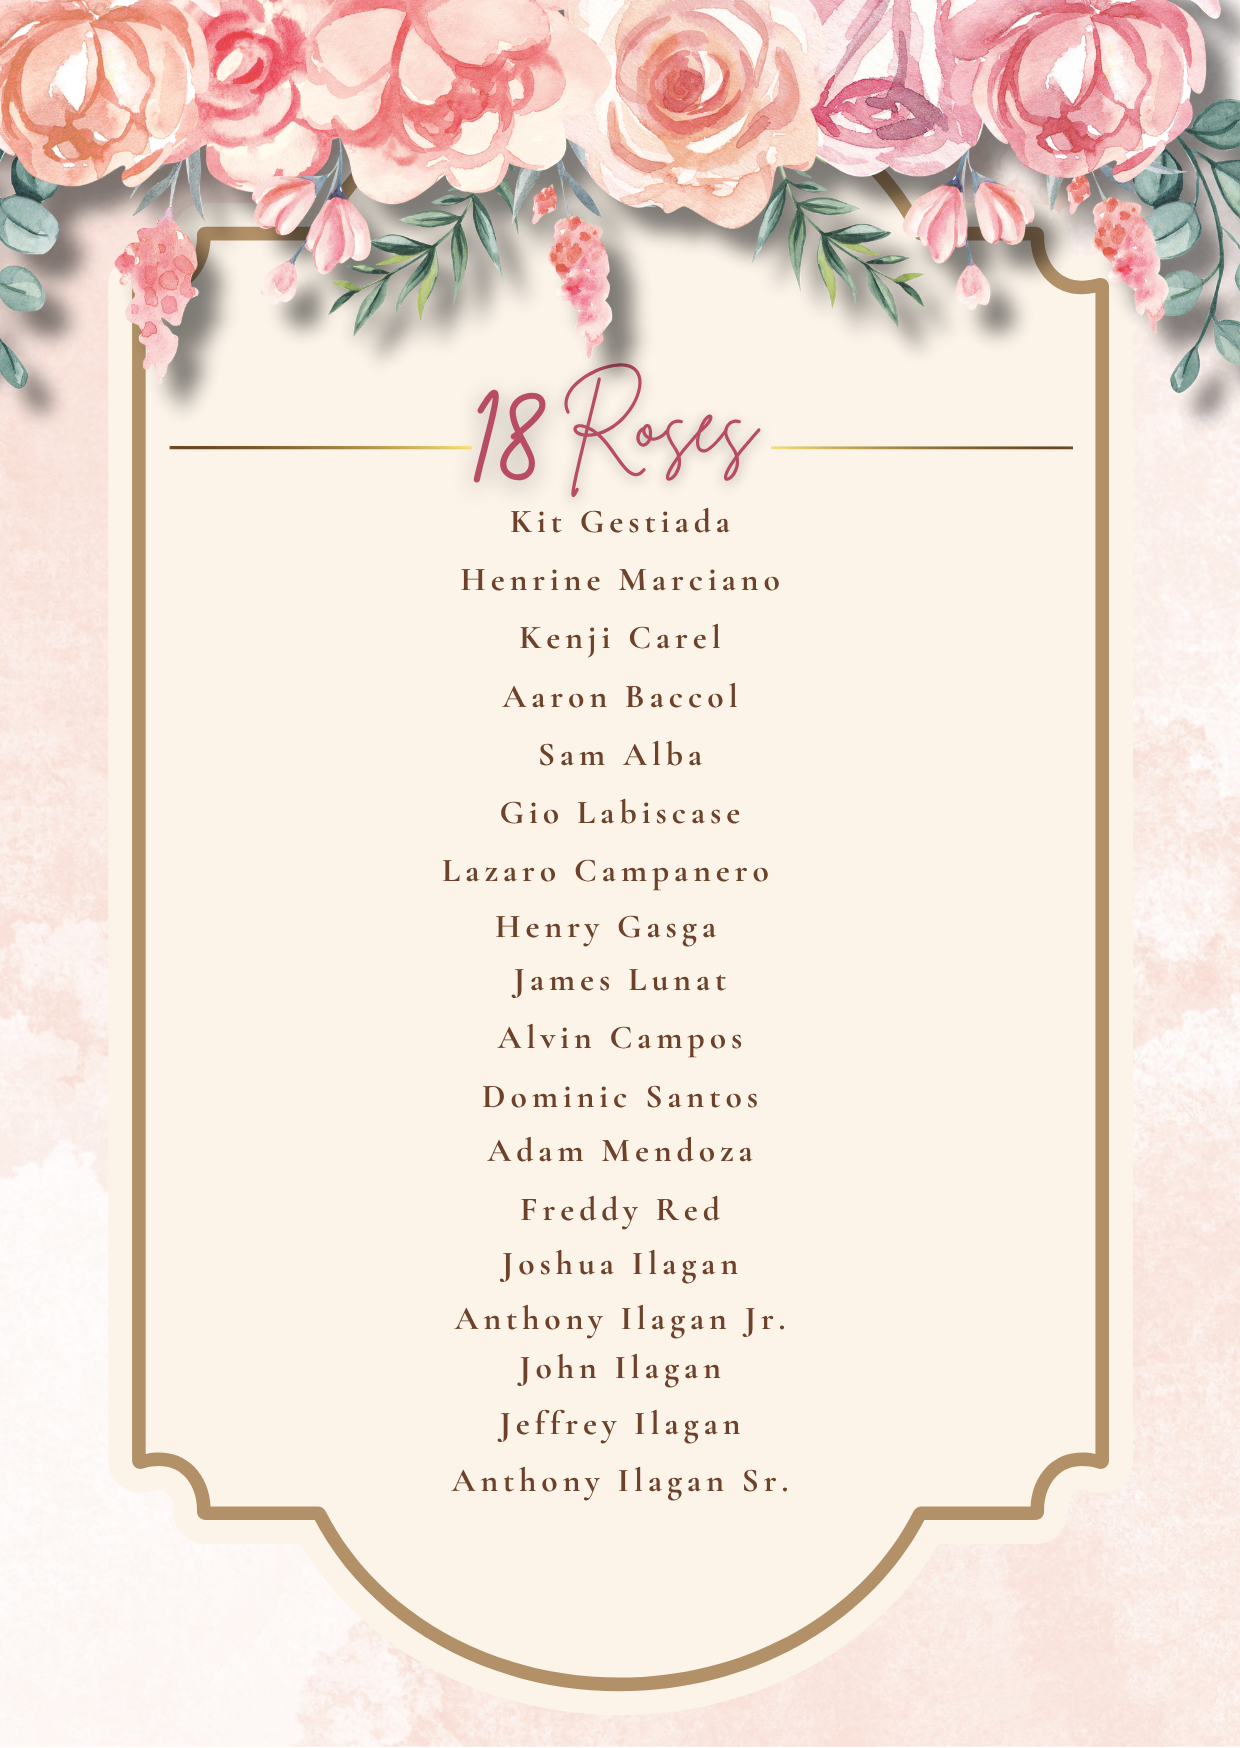
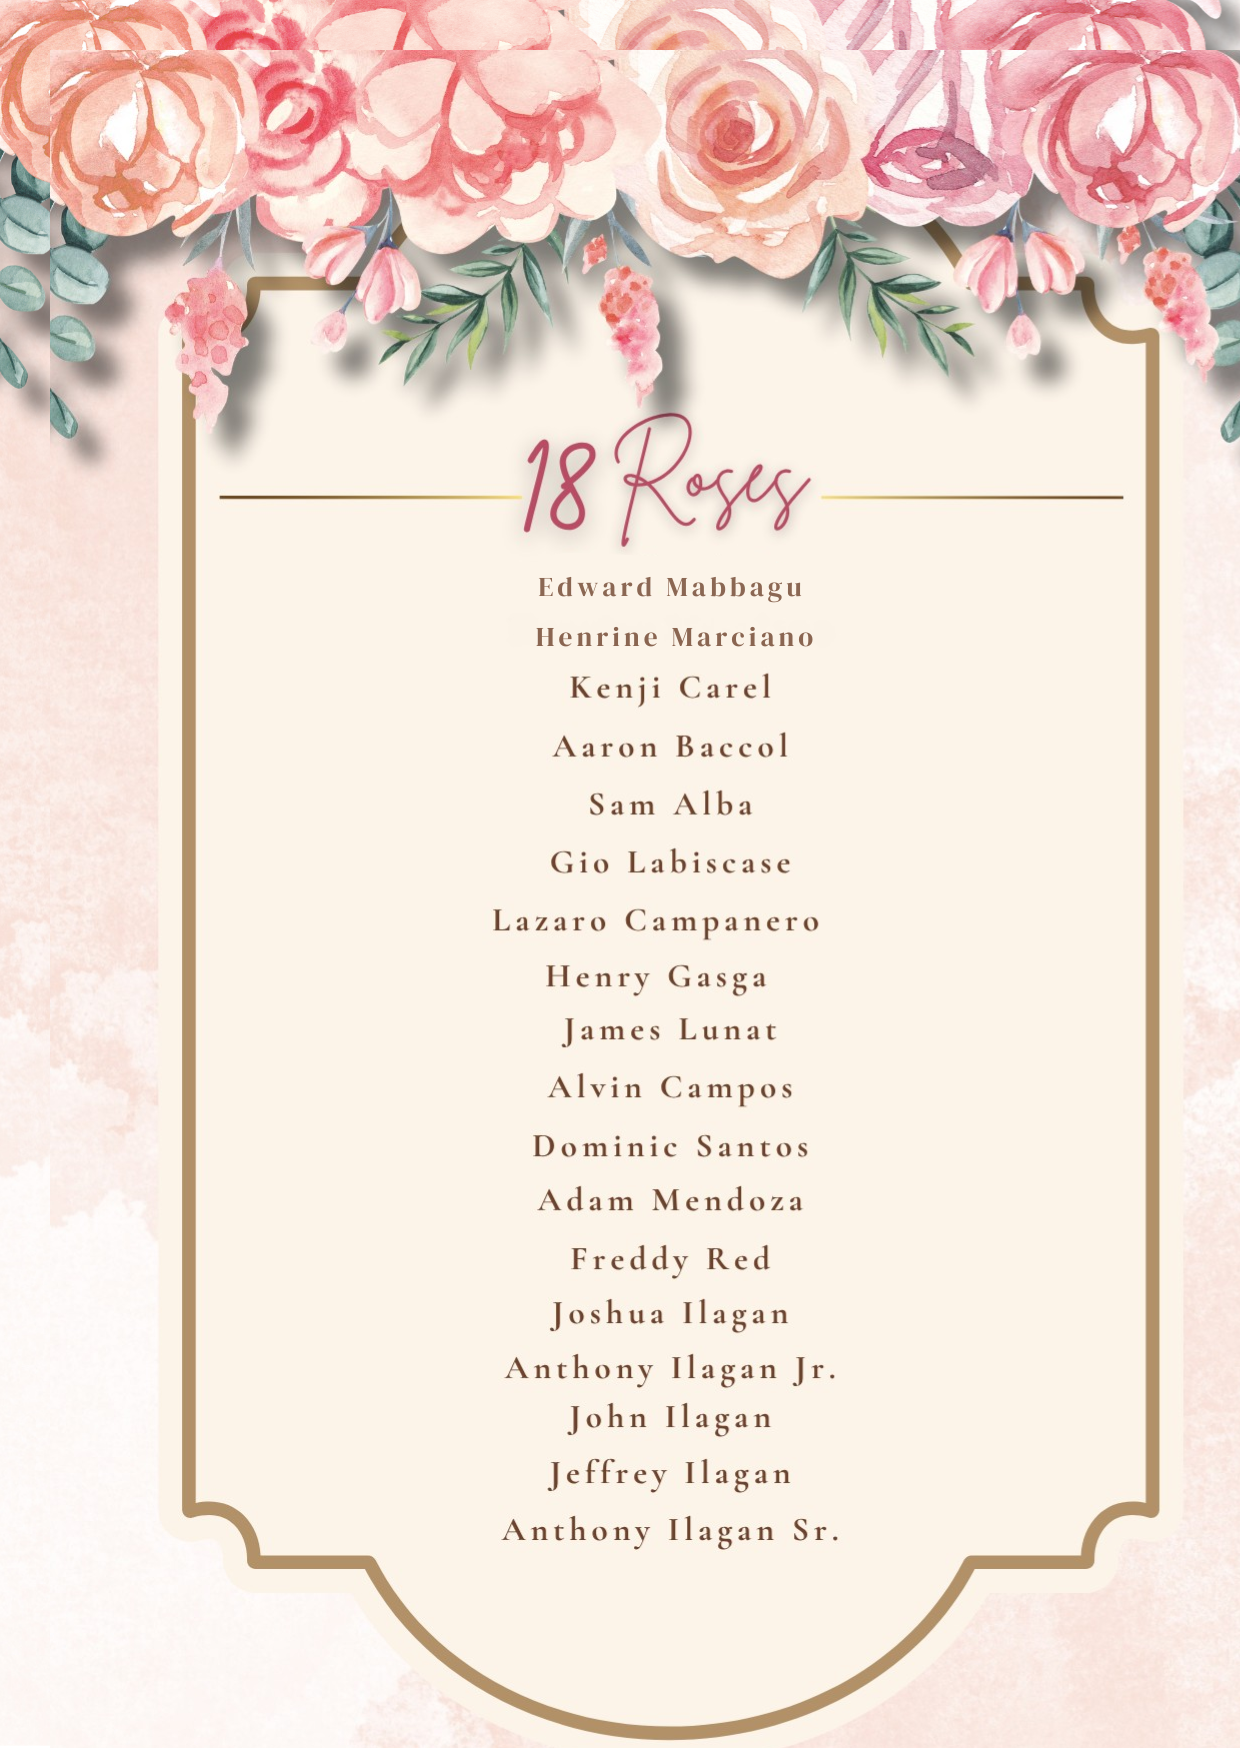
add changes

diff --git a/src/components/Dresscode.tsx b/src/components/Dresscode.tsx
@@ -107,7 +107,6 @@ export default function CongratulatoryMoney({}: CongratulatoryMoneyProps) {
   const sharedPalette = [
     { name: "Dark Orange", hex: "#C06E3E" },
     { name: "Warm White", hex: "#F6EEDD" },
-    { name: "Light Pink", hex: "#F9FCF2" },
     { name: "Light Lavender", hex: "#D4BFD9" },
     { name: "Cool Blue", hex: "#9DD5E4" },
     { name: "Light Olive Green", hex: "#98B342" },
@@ -128,7 +127,7 @@ export default function CongratulatoryMoney({}: CongratulatoryMoneyProps) {
 
         {/* CENTER: Shared Palette Content */}
         <CenterContent>
-            <h3>Recommended Colors</h3>
+            <h4>Recommended Colors - 🙏 Strictly no color pink  🙏</h4>
             <SwatchRow>
               {sharedPalette.map((color) => (
                 <ColorSwatch key={color.hex} css={{ background: color.hex }} title={color.name} />

diff --git a/src/components/Gallery.tsx b/src/components/Gallery.tsx
@@ -18,12 +18,12 @@ const Title = styled("p", {
 
 const images = [
   {
-    original: "./assets/Gallery_Photo_2A.jpg",
-    thumbnail: "./assets/Gallery_Photo_2A.jpg",
+    original: "./assets/Gallery_Photo_2A.png",
+    thumbnail: "./assets/Gallery_Photo_2A.png",
   },
   {
-    original: "./assets/Gallery_Photo_3A.jpg",
-    thumbnail: "./assets/Gallery_Photo_3A.jpg",
+    original: "./assets/Gallery_Photo_3A.png",
+    thumbnail: "./assets/Gallery_Photo_3A.png",
   },
   {
     original: "./assets/Gallery_Photo_4A.png",
